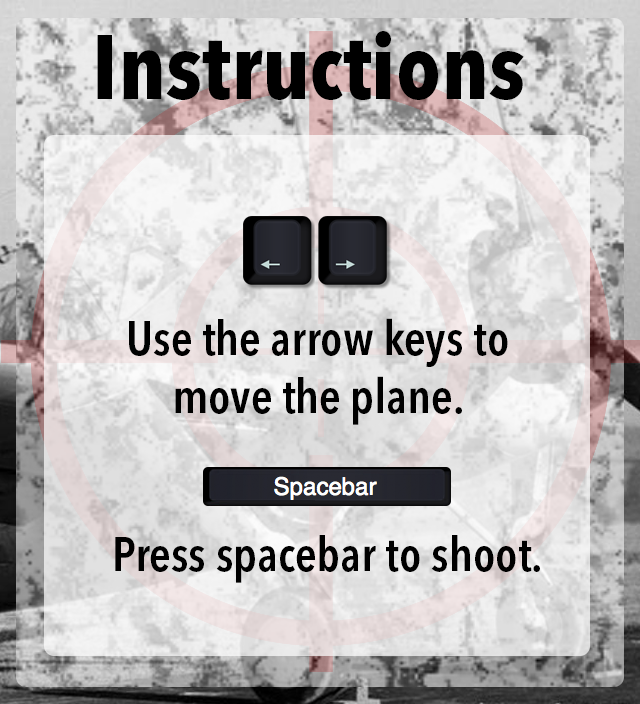
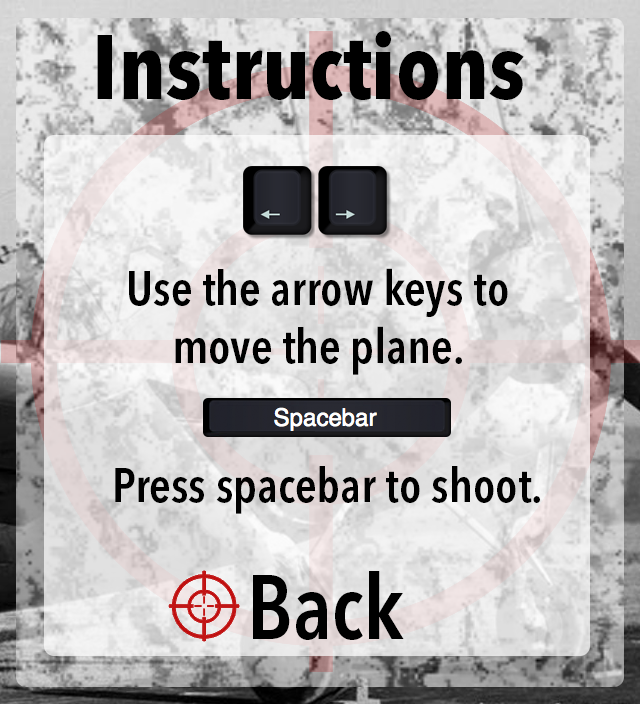
Game menu with instructions and exit working

Changed region(s): [[0.1875, 0.2188, 0.8125, 0.625], [0.1562, 0.75, 0.8438, 0.9062], [0.1562, 0.6562, 0.8438, 0.7188]]

diff --git a/game.py b/game.py
@@ -1,19 +1,74 @@
 import pygame
-
+from menu_screen import Selection
+from menu_screen import Menu_Screen
+from menu_screen import Instruction_Screen
 pygame.init()
 
 display_info = pygame.display.Info()
 
-print display_info.current_w
-
-
 screen = pygame.display.set_mode((640, 704))
+pygame.mouse.set_visible(1)
 
-done = False
+# Assign the screen images to the respective variables
+menu_screen = Menu_Screen()
+selection = Selection()
+instruction_screen = Instruction_Screen()
 
-while not done:
+# List of objects to draw
+objects_on_screen = list()
+objects_on_screen.append(menu_screen)
+objects_on_screen.append(selection)
+
+game_over = False
+while not game_over:
+    # Clean screen
+    screen.fill((0,0,0))
+
+    # Draw objects
+    for obj in objects_on_screen:
+        screen.blit(obj.sprite, obj.pos())
+
+    # Get events
     for event in pygame.event.get():
+        if event.type == pygame.KEYUP:
+
+            # MENU SCREEN
+            if objects_on_screen.__contains__(menu_screen):
+                if event.key == pygame.K_DOWN:
+                    objects_on_screen[objects_on_screen.index(selection)].state_up()
+                if event.key == pygame.K_UP:
+                    objects_on_screen[objects_on_screen.index(selection)].state_down()
+                if event.key == pygame.K_RETURN:
+                    if objects_on_screen[objects_on_screen.index(selection)].state == 0:
+                        # Start the game
+                        pass
+                    elif objects_on_screen[objects_on_screen.index(selection)].state == 1:
+                        # Load the instruction Screen
+                        for obj in objects_on_screen:
+                            objects_on_screen.remove(obj)
+                        objects_on_screen.append(instruction_screen)
+                        break
+                    else:
+                        game_over = True
+
+            # INSTRUCTION SCREEN
+            if objects_on_screen.__contains__(instruction_screen):
+                if event.key == pygame.K_RETURN:
+                    for obj in objects_on_screen:
+                        objects_on_screen.remove(obj)
+
+                    objects_on_screen.append(menu_screen)
+                    objects_on_screen.append(selection)
+
         if event.type == pygame.QUIT:
-            done = True
+            game_over = True
+
 
     pygame.display.flip()
+
+
+'''
+    if pygame.mouse.get_pressed()[0]:
+        x, y = pygame.mouse.get_pos()
+        print 'x:'+ str(x) + ' y:' + str(y)
+'''

diff --git a/menu_screen.py b/menu_screen.py
@@ -1,0 +1,62 @@
+import pygame
+import screen
+
+# State position constants
+X_0 = 151
+Y_0 = 226
+
+X_1 = 21
+Y_1 = 400
+
+X_2 = 165
+Y_2 = 569
+
+class Menu_Screen(screen.Screen):
+    def __init__(self):
+        screen.Screen.__init__(self,'menu_screen')
+        self.sprite = pygame.image.load("imgs/Menu.png")
+
+class Instruction_Screen(screen.Screen):
+    def __init__(self):
+        screen.Screen.__init__(self,'instruction_screen')
+        self.sprite = pygame.image.load("imgs/Instructions.png")
+
+class Selection(screen.Screen):
+
+    def __init__(self):
+        screen.Screen.__init__(self,'menu_selection')
+        self.sprite = pygame.image.load("imgs/selection.png")
+        self.__state = 0
+        self.x = X_0
+        self.y = Y_0
+
+    # Setters and getters
+    @property
+    def state(self):
+        return self.__state
+
+    @state.setter
+    def state(self,value):
+        self.__state = value
+
+    def update_position(self, state):
+        if state == 0:
+            self.x = X_0
+            self.y = Y_0
+        elif state == 1:
+            self.x = X_1
+            self.y = Y_1
+        else:
+            self.x = X_2
+            self.y = Y_2
+
+    def state_up(self):
+        if self.state < 2:
+            self.state += 1
+            self.update_position(self.state)
+
+    def state_down(self):
+        if self.state > 0:
+            self.state -= 1
+            self.update_position(self.state)
+

diff --git a/screen.py b/screen.py
@@ -1,0 +1,62 @@
+X_MAX = 640
+Y_MAX = 704
+
+class Screen:
+    def __init__(self, name):
+        self.__name = name
+        self.__sprite = None
+        self.__x = 0
+        self.__y = 0
+
+    # Setters and Getters
+
+    @property
+    def name(self):
+        return self.__name
+
+    @name.setter
+    def name(self,value):
+        self.__name = value
+
+    @property
+    def sprite(self):
+        return self.__sprite
+
+    @sprite.setter
+    def sprite(self, value):
+        self.__sprite = value
+
+    @property
+    def x(self):
+        return self.__x
+
+    @x.setter
+    def x(self, value):
+        if value > X_MAX:
+            self.__x = X_MAX
+        elif value < 0:
+            self.__x = 0
+        else:
+            self.__x = value
+
+    @property
+    def y(self):
+        return self.__y
+
+    @y.setter
+    def y(self, value):
+        if value > Y_MAX:
+            self.__y = Y_MAX
+        elif value < 0:
+            self.__y = 0
+        else:
+            self.__y = value
+
+    def pos(self):
+        return self.x, self.y
+
+    def __str__(self):
+        return self.name
+
+    def __repr__(self):
+        return str(self.name)
